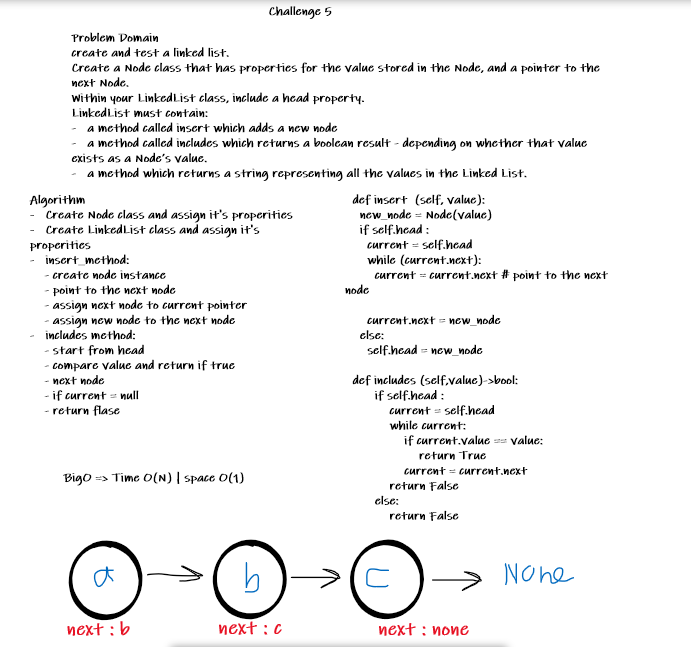
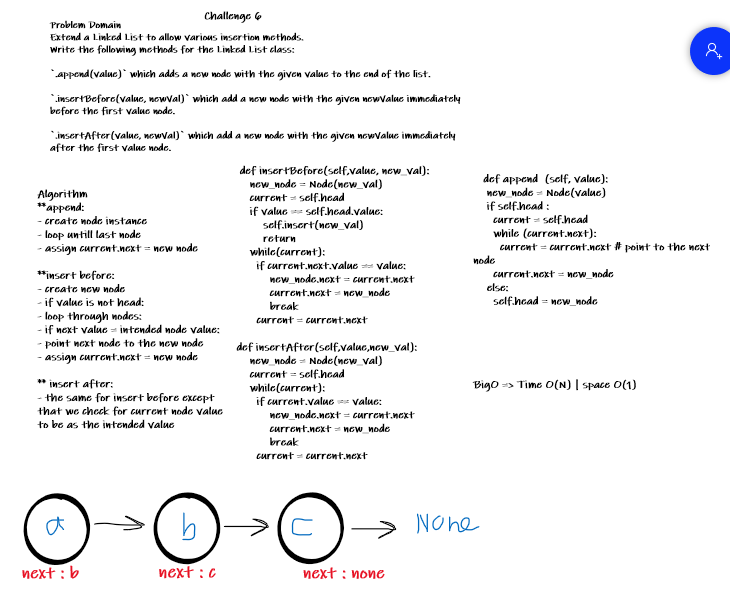
done challenge 6

Changed region(s): [[0.0, 0.0, 1.0, 1.0], [0.7294, 0.8528, 0.8205, 0.9137]]

diff --git a/python/tests/test_linked_list.py b/python/tests/test_linked_list.py
@@ -55,6 +55,63 @@ def test_all_values(an_instance,add_2testing_nodes):
     assert actual == expected
 
 
+def test_append(an_instance):
+    """
+    Can successfully add a node to the end of the linked list
+    """
+    an_instance.append('test')
+    actual = an_instance.includes('test')
+    expected = True
+    assert actual == expected
+
+def test_multiple_append(an_instance):
+    """
+    Can successfully add multiple nodes to the end of a linked list
+    """
+    an_instance.append('test_one')
+    an_instance.append('test_two')
+    actual = an_instance.includes('test_one') and an_instance.includes('test_two')
+    expected = True
+    assert actual == expected
+
+def test_insert_before(an_instance,add_2testing_nodes):
+    """
+    Can successfully insert a node before a node located i the middle of a linked list
+    """
+    an_instance.insertBefore('test-two','new-test')
+    actual = an_instance.__str__()
+    expected = '{test-one} -> {new-test} -> {test-two} -> None'
+    assert actual == expected
+
+def test_insert_before_first_node(an_instance,add_2testing_nodes):
+    """
+    Can successfully insert a node before the first node of a linked list
+    """
+    an_instance.insertBefore('test-one','new-test')
+    actual = an_instance.__str__()
+    expected = '{new-test} -> {test-one} -> {test-two} -> None'
+    assert actual == expected
+
+
+def test_insert_after(an_instance,add_2testing_nodes):
+    """
+    Can successfully insert after a node in the middle of the linked list
+    """
+    an_instance.insertAfter('test-one','new-test')
+    actual = an_instance.__str__()
+    expected = '{test-one} -> {new-test} -> {test-two} -> None'
+    assert actual == expected
+
+def test_insert_after_last_node(an_instance,add_2testing_nodes):
+    """
+    Can successfully insert a node after the last node of the linked list
+    """
+    an_instance.insertAfter('test-two','new-test')
+    actual = an_instance.__str__()
+    expected = '{test-one} -> {test-two} -> {new-test} -> None'
+    assert actual == expected
+
+
 
 @pytest.fixture
 def an_instance():

diff --git a/python/Data_Structures/linked_list/linked_list.py b/python/Data_Structures/linked_list/linked_list.py
@@ -15,6 +15,40 @@ class Linked_list:
         new_node.next = self.head
     self.head = new_node
 
+  def append  (self, value):
+    new_node = Node(value)
+    if self.head :
+      current = self.head
+      while (current.next):
+        current = current.next # point to the next node
+      current.next = new_node
+    else:
+      self.head = new_node
+
+
+  def insertBefore(self,value, new_val):
+      new_node = Node(new_val)
+      current = self.head
+      if value == self.head.value:
+          self.insert(new_val)
+          return
+      while(current):
+        if current.next.value == value:
+            new_node.next = current.next
+            current.next = new_node
+            break
+        current = current.next
+
+  def insertAfter(self,value,new_val):
+      new_node = Node(new_val)
+      current = self.head
+      while(current):
+        if current.value == value:
+            new_node.next = current.next
+            current.next = new_node
+            break
+        current = current.next
+
   def includes (self,value)->bool:
         if self.head :
             current = self.head
@@ -25,6 +59,7 @@ class Linked_list:
             return False
         else:
             return False
+
 
   def __str__(self):
     output = ""
@@ -38,5 +73,4 @@ class Linked_list:
 
   def __repr__(self):
       return 'a linked_list instance'
-
 

diff --git a/python/Data_Structures/linked_list/README.md b/python/Data_Structures/linked_list/README.md
@@ -1,42 +1,75 @@
+
 # Challenge Summary
-create and test a linked list data structure.
-## Challenge Description
-Create a Node class that has properties for the value stored in the Node, and a pointer to the next Node.
-Within your LinkedList class, include a head property.
-LinkedList must contain:
--   a method called insert which adds a new node
--   a method called includes which returns a boolean result - depending on whether that value exists as a Node’s value.
--   a method which returns a string representing all the values in the Linked List.
+<!-- Description of the challenge -->
+Extend a Linked List to allow various insertion methods.
+Write the following methods for the Linked List class:
+
+`.append(value)` which adds a new node with the given value to the end of the list.
+
+`.insertBefore(value, newVal)` which add a new node with the given newValue immediately before the first value node.
+
+`.insertAfter(value, newVal)` which add a new node with the given newValue immediately after the first value node.
+
+## Whiteboard Process
+<!-- Embedded whiteboard image -->
+![img](../../assets/linked_list.png)
 
 ## Approach & Efficiency
--   Create Node class and assign it's properities
--   Create LinkedList class and assign it's properities
--   insert_method:
-    - create node instance
-    - point to the next node
-    - assign next node to current pointer
-    - assign new node to the next node
--   includes method:
-    - start from head
-    - compare value and return if true
-    - next node
-    - if current = null
-    - return flase
+<!-- What approach did you take? Why? What is the Big O space/time for this approach? -->
+
+**append:
+- create node instance
+- loop untill last node
+- assign current.next = new node
+
+**insert before:
+- create new node
+- if value is not head:
+- loop through nodes:
+- if next value = intended node value:
+- point next node to the new node
+- assign current.next = new node
+
+** insert after:
+- the same for insert before except
+that we check for current node value
+to be as the intended value
 
 
 BigO => Time O(N) | space O(1)
 
-## API
-<!-- Description of each method publicly available to your Linked List -->
 
-**insert_method:**
+## Solution
+<!-- Show how to run your code, and examples of it in action -->
 
-insert into the linked list
+#### getting started:
+clone the repo `git clone https://github.com/NizarAlsaeed/data-structures-and-algorithms.git`
 
-**includes method:**
+change directory `cd python/Data_Structures/linked_list`
 
-checks if a value is in the linked list
+open linked_list.py
 
-**__str__**
+create new instance `linked_list = Linked_list()`
 
-return a collection of all the values that exist in the linked list
+add some data
+```
+linked_list.append(1)
+linked_list.append(2)
+linked_list.append(3)
+```
+
+print the linked list visualization
+```
+print(linked_list.__str__())
+
+# output:
+# {1} -> {2} -> {3} -> None
+```
+
+try the available methods, such as `.insertAfter`:
+```
+linked_list.insertAfter(3,4)
+
+# output:
+# {1} -> {2} -> {3} -> {4} -> None
+```

diff --git a/README.md b/README.md
@@ -18,4 +18,5 @@ class | challenge
 01    | [array-reverse](python/code_challenges/array_reverse)
 02    | [array-shift](python/code_challenges/array_shift)
 03    | [array-binary-search](python/code_challenges/array_binary_search)
-04    | [linked-list](python/Data_Structures/linked_list)
+05    | [linked-list](python/Data_Structures/linked_list)
+06    | [ll-insertion](python/Data_Structures/linked_list)
